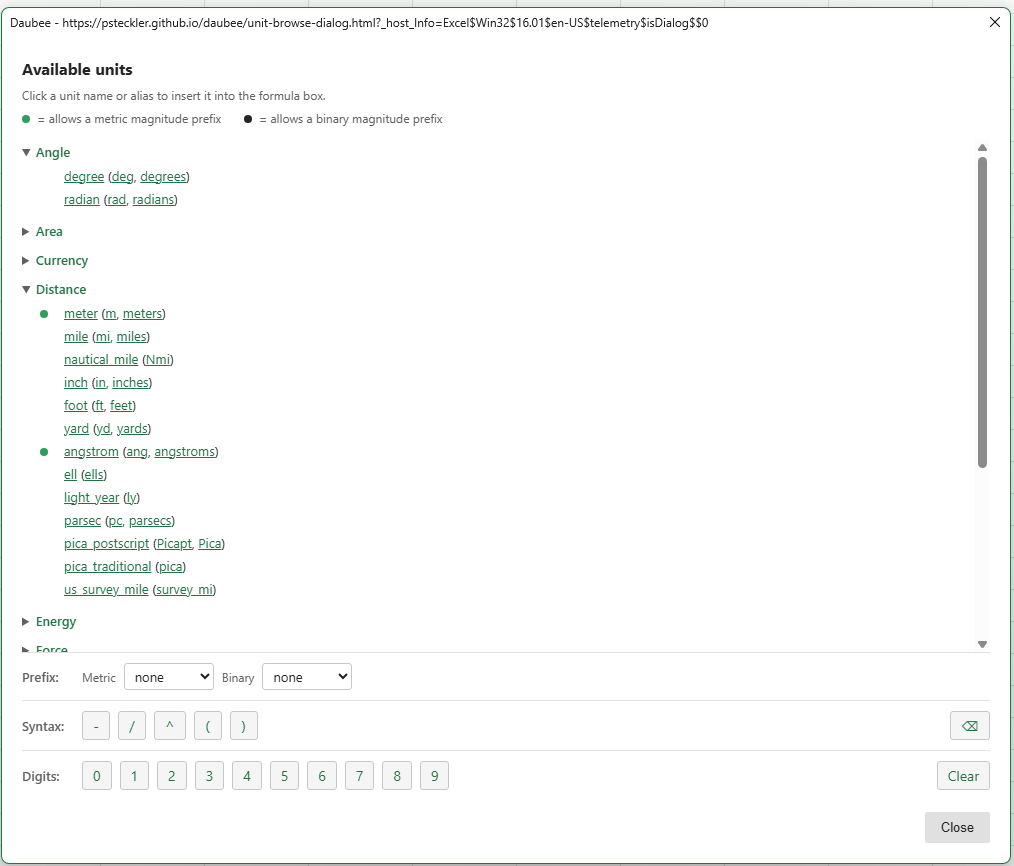
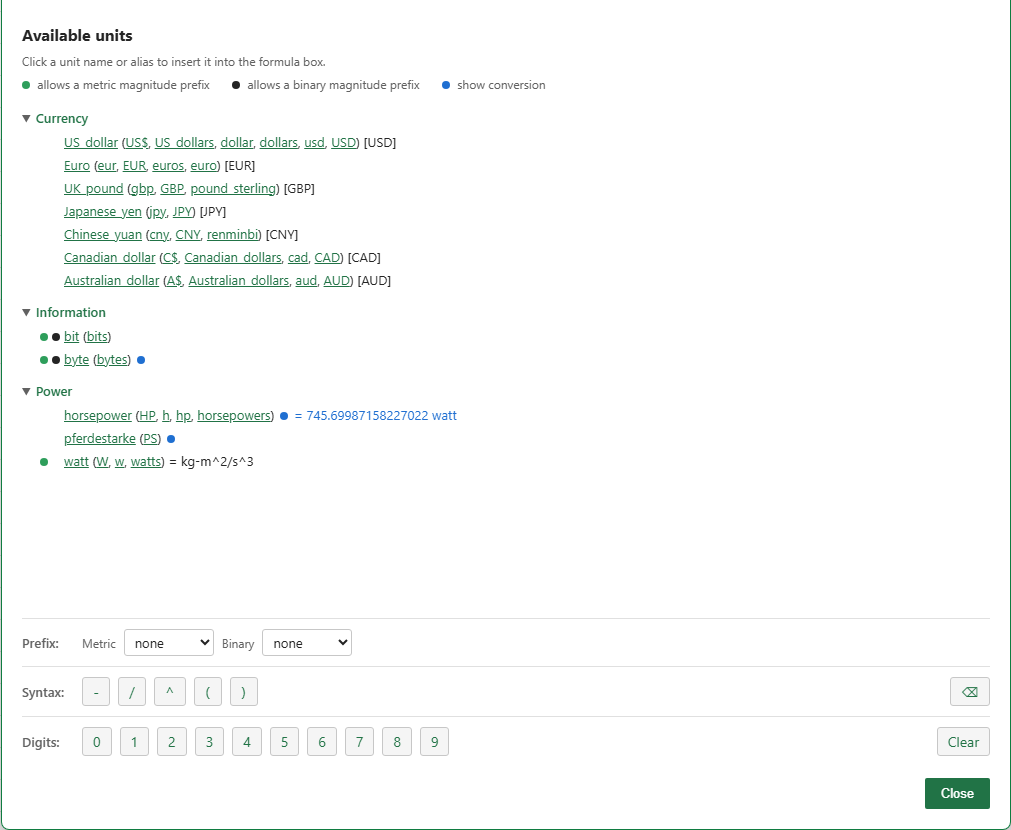
Updated Browse screenshot; clearer manifest upload steps for the web

diff --git a/README.md b/README.md
@@ -62,7 +62,8 @@ the **Raw** button and choose Save As).
 - **Excel on the Web**
 
   Open Excel online, go to Home > Add-ins > More Add-ins, select
-  MY ADD-INS, click Upload My Add-in, and select the manifest file.
+  MY ADD-INS, then Manage My Add-ins, click Upload My Add-in, and select the
+  manifest file.
 
 ## Research background
 
